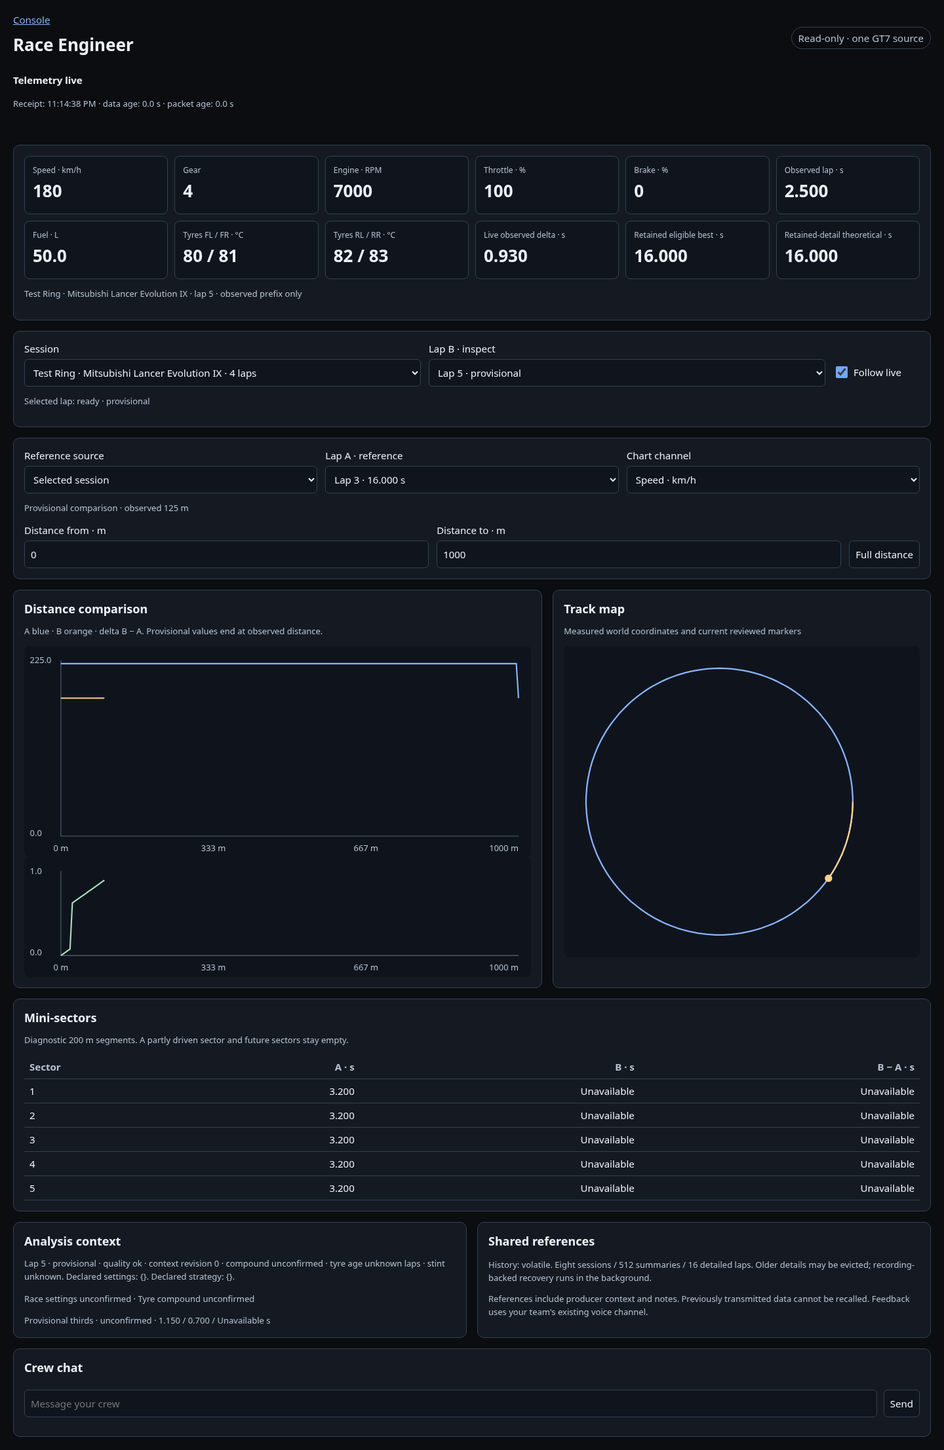
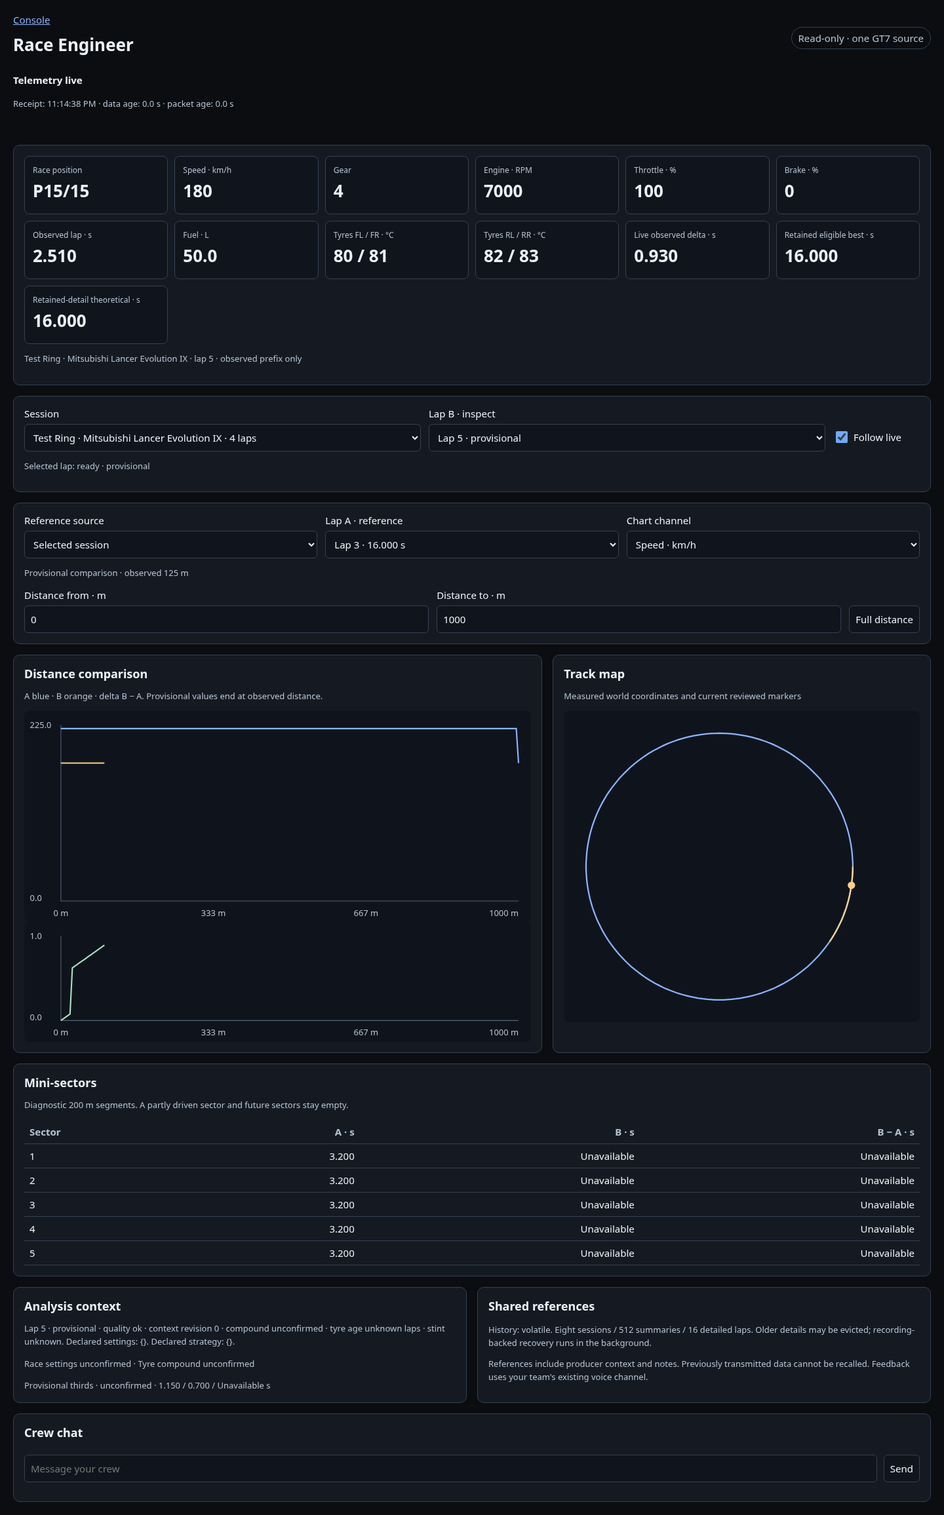
feat: show measured GT7 race and lap-line position (#862)
* feat: publish measured GT7 race and lap-line position

* test: capture measured race position on the Engineer desk

* docs: clarify lap-line position capture conditions

* docs: record delivered Engineer selection and marker fixes

---------

diff --git a/src/console/race-engineer.html b/src/console/race-engineer.html
@@ -13,6 +13,7 @@
 <p id="status" role="status">Checking current access…</p><p id="receipt" class="sub">Waiting for measured telemetry</p><p id="notice" role="status"></p>
 <div id="protected" hidden>
 <section aria-label="Live instruments"><div id="instruments">
+<div class="value"><span>Race position</span><strong id="race-position">Unavailable</strong></div>
 <div class="value"><span>Speed · km/h</span><strong id="speed">Unavailable</strong></div><div class="value"><span>Gear</span><strong id="gear">Unavailable</strong></div><div class="value"><span>Engine · RPM</span><strong id="rpm">Unavailable</strong></div><div class="value"><span>Throttle · %</span><strong id="throttle">Unavailable</strong></div><div class="value"><span>Brake · %</span><strong id="brake">Unavailable</strong></div><div class="value"><span>Observed lap · s</span><strong id="lap-time">Unavailable</strong></div>
 <div class="value"><span>Fuel · L</span><strong id="fuel">Unavailable</strong></div><div class="value"><span>Tyres FL / FR · °C</span><strong id="tyres-front">Unavailable</strong></div><div class="value"><span>Tyres RL / RR · °C</span><strong id="tyres-rear">Unavailable</strong></div><div class="value"><span>Live observed delta · s</span><strong id="delta">Unavailable</strong></div><div class="value"><span>Retained eligible best · s</span><strong id="best">Unavailable</strong></div><div class="value"><span>Retained-detail theoretical · s</span><strong id="theory">Unavailable</strong></div>
 </div><p id="source-state" class="sub"></p></section>
@@ -48,7 +49,7 @@ async function request(route,query={},method='GET',body=null){
 }
 function resetGeneration(generation){if(state.generation&&state.generation!==generation){state.epoch++;state.laps=[];state.sessions=[];state.known.clear();state.historyRevision=null;state.a=state.b=state.session=state.refSource='';state.refLaps=[];state.zoom=null;state.newLaps=0;clearPlots();say('Relay restarted. A new live generation is active; previous recordings remain history.');}state.generation=generation;}
 function options(id,rows,selected,empty){const el=$(id);el.replaceChildren();if(empty!==undefined){const o=document.createElement('option');o.value='';o.textContent=empty;el.append(o);}for(const row of rows){const o=document.createElement('option');o.value=row.id;o.textContent=row.label;el.append(o);}if(selected&&!rows.some(r=>r.id===selected)){const o=document.createElement('option');o.value=selected;o.textContent='Unavailable selection';el.append(o);}el.value=selected;}
-function lapLabel(r){return `Lap ${r.lap} · ${r.state==='provisional'?'provisional':num(r.time_s,3)+' s'}${r.detail_state==='evicted'?' · evicted':''}${!r.comparison_eligible&&r.state!=='provisional'?' · limited':''}`;}
+function lapLabel(r){return `Lap ${r.lap} · ${r.state==='provisional'?'provisional':num(r.time_s,3)+' s'}${r.line_position!=null&&r.line_car_count!=null?' · finish P'+r.line_position+'/'+r.line_car_count:''}${r.detail_state==='evicted'?' · evicted':''}${!r.comparison_eligible&&r.state!=='provisional'?' · limited':''}`;}
 function carLabel(row){return row.car||('car '+(row.car_id??'unknown'));}
 function referenceLabel(row){const source=row.session_id?.split(':')[1];return state.refs.find(r=>r.id===source)?.label||'Shared reference';}
 function selections(){
@@ -65,7 +66,7 @@ function selections(){
  options('reference-source',state.refs.map(r=>({id:r.id,label:r.label})),state.refSource,'Selected session');
  $('follow').checked=state.follow;$('new-laps').textContent=state.newLaps?`${state.newLaps} newly completed lap${state.newLaps===1?'':'s'}`:'';
 }
-function instruments(snap){const v=snap.instruments||{};for(const [id,value,d] of [['speed',v.speed_kmh,0],['gear',v.gear,0],['rpm',v.rpm,0],['throttle',v.throttle,0],['brake',v.brake,0],['fuel',v.fuel_l,1],['lap-time',snap.current?.elapsed_s,3],['best',snap.best_s,3],['theory',snap.theoretical_s,3]])$(id).textContent=num(value,d);
+function instruments(snap){const v=snap.instruments||{};$('race-position').textContent=v.race_position!=null&&v.car_count!=null?`P${v.race_position}/${v.car_count}`:'Unavailable';for(const [id,value,d] of [['speed',v.speed_kmh,0],['gear',v.gear,0],['rpm',v.rpm,0],['throttle',v.throttle,0],['brake',v.brake,0],['fuel',v.fuel_l,1],['lap-time',snap.current?.elapsed_s,3],['best',snap.best_s,3],['theory',snap.theoretical_s,3]])$(id).textContent=num(value,d);
  const tyres=v.tyres_c||[];$('tyres-front').textContent=num(tyres[0],0)+' / '+num(tyres[1],0);$('tyres-rear').textContent=num(tyres[2],0)+' / '+num(tyres[3],0);
  $('source-state').textContent=snap.current?`${snap.current.track||'Unknown track'} · ${snap.current.car||'Unknown car'} · lap ${snap.current.lap} · observed prefix only`:'Waiting for a lap';
  $('history-state').textContent=`History: ${snap.history}. Eight sessions / 512 summaries / 16 detailed laps. Older details may be evicted; recording-backed recovery runs in the background.`;

diff --git a/tests/test_engineer_race_position.py b/tests/test_engineer_race_position.py
@@ -1,0 +1,115 @@
+"""Measured race-position parsing, lap-line preservation and public projection."""
+import json
+import math
+import struct
+import sys
+import tempfile
+from pathlib import Path
+
+ROOT = Path(__file__).resolve().parents[1]
+sys.path.insert(0, str(ROOT / 'src' / 'scripts'))
+import gt7_telemetry as tm
+import gt7_laps
+import gt7_recording
+import race_engineer_live as live
+import race_engineer_api as api
+from test_gt7_laps import _pkt, FakeTracks, FakeCars
+
+
+def packet(lap=1, position=15, cars=15, angle=0, flags=None):
+    raw = bytearray(_pkt(lap, 50, angle))
+    struct.pack_into('<hh', raw, 0x84, position, cars)
+    if flags is not None:
+        struct.pack_into('<H', raw, tm.OFF_FLAGS, flags)
+    return bytes(raw)
+
+
+def t_valid_and_invalid_position_pairs():
+    for pos, count in [(15, 15), (1, 2), (2, 2), (1, 1), (32767, 32767)]:
+        for length in (0x128, 0x13c, 0x158):
+            parsed = tm.parse_packet(packet(position=pos, cars=count)[:length])
+            assert (parsed.race_position, parsed.car_count) == (pos, count), 'valid measured race position lost'
+    for pos, count in [(-1, -1), (0, 0), (1, 0), (-1, 15), (0, 15), (16, 15), (1, -1)]:
+        parsed = tm.parse_packet(packet(position=pos, cars=count))
+        assert parsed.race_position is None, 'invalid measured position accepted'
+        assert parsed.car_count == (count if count > 0 else None), 'invalid field size accepted'
+
+
+def t_snapshot_uses_measured_position_only():
+    with live.Store(lambda: True, tracks=FakeTracks(), cars=FakeCars()) as store:
+        service = api.Service(store)
+        try:
+            for offset, pos in enumerate((15, 7, 1)):
+                store.put(tm.parse_packet(packet(position=pos)), 100 + offset)
+                assert store.flush(10)
+                instruments = service.snapshot()['instruments']
+                assert (instruments['race_position'], instruments['car_count']) == (pos, 15)
+            for flags in (0, tm.FLAG_ON_TRACK | tm.FLAG_LOADING):
+                store.put(tm.parse_packet(packet(flags=flags)), 120)
+                assert store.flush(10)
+                instruments = service.snapshot()['instruments']
+                assert instruments['race_position'] is None and instruments['car_count'] is None, 'off-session race position retained'
+        finally:
+            service.close()
+
+
+def t_lap_line_position_matches_live_and_offline_index():
+    with tempfile.TemporaryDirectory() as root:
+        writer = gt7_recording.RecordingWriter(root, 'Solo', 'dev', queue_max=0)
+        # Position changes at the boundary. The previous packet's position is wrong.
+        for lap in range(1, 4):
+            for k in range(80):
+                writer.put(100 + (lap-1)*20 + k*.25, '~', packet(lap, position=lap if k == 0 else 15, angle=2*math.pi*k/80))
+        writer.close()
+        with live.Store(lambda: True, tracks=FakeTracks(), cars=FakeCars(), queue_max=4096) as store:
+            for wall, _, raw in gt7_recording.Recording(writer.path).packets():
+                store.put(tm.parse_packet(raw), wall)
+            assert store.flush(10)
+            service = api.Service(store)
+            try:
+                history = service.history(None)
+                lap = next(row for row in history['laps'] if row['lap'] == 2)
+                assert (lap['line_position'], lap['line_car_count']) == (3, 15), 'lap line used previous packet position'
+                assert service.snapshot()['current'].get('line_position') is None, 'unfinished lap claimed a finish position'
+                indexed = gt7_laps.index(writer.path, FakeTracks(), FakeCars(), root)
+                row = next(row for row in indexed['laps'] if row['lap'] == 2)
+                assert (row['line_position'], row['line_car_count']) == (3, 15), 'offline index lost lap-line position'
+                cache = Path(gt7_laps.cache_path(writer.path))
+                old = json.loads(cache.read_text()); old['version'] = 7
+                for cached in old['laps']:
+                    cached.pop('line_position', None); cached.pop('line_car_count', None)
+                cache.write_text(json.dumps(old))
+                rebuilt = gt7_laps.index(writer.path, FakeTracks(), FakeCars(), root)
+                assert next(r for r in rebuilt['laps'] if r['lap'] == 2)['line_position'] == 3, 'legacy index was not rebuilt'
+            finally:
+                service.close()
+
+
+
+def t_menu_boundary_does_not_claim_a_line_position():
+    for flags in (0, tm.FLAG_ON_TRACK | tm.FLAG_LOADING):
+        engine = tm.TelemetryEngine(); laps = []; engine.on_lap = laps.append
+        engine.update(tm.parse_packet(packet()), 100)
+        engine.update(tm.parse_packet(packet(lap=2, flags=flags)), 101)
+        assert laps[-1]['line_position'] is None, 'menu/loading packet claimed a line position'
+
+
+def t_missing_line_position_and_old_resume_packet():
+    engine = tm.TelemetryEngine()
+    laps = []; engine.on_lap = laps.append
+    engine.update(tm.parse_packet(packet(lap=1)), 100)
+    engine.update(tm.parse_packet(packet(lap=2, position=-1, cars=-1)), 101)
+    assert laps[-1]['line_position'] is None and laps[-1]['line_car_count'] is None
+    saved = engine.resume_state()
+    saved['last'].pop('race_position'); saved['last'].pop('car_count')
+    restored = tm.TelemetryEngine(); restored.restore(saved)
+    assert restored._last.race_position is None and restored._last.car_count is None
+    engine.update(tm.parse_packet(packet(lap=0, flags=0)), 102)
+    assert laps[-1]['reason'] == 'session change'
+    assert laps[-1]['line_position'] is None, 'abandoned lap claimed a line position'
+
+if __name__ == '__main__':
+    for name, fn in sorted(list(globals().items())):
+        if name.startswith('t_') and callable(fn):
+            fn()
+            print('PASS', name)

diff --git a/src/scripts/gt7_telemetry.py b/src/scripts/gt7_telemetry.py
@@ -35,6 +35,8 @@ OFF_LAP = 0x74          # current lap (int16)
 OFF_BEST_MS = 0x78      # best lap time, ms (int32; -1 = none)
 OFF_LAST_MS = 0x7C      # last lap time, ms (int32; -1 = none)
 OFF_DAY_PROGRESSION = 0x80  # time of day on track, ms since midnight (int32)
+OFF_RACE_POSITION = 0x84  # own race position (int16; -1 = no session)
+OFF_CAR_COUNT = 0x86      # number of cars (int16; -1 = no session)
 OFF_FLAGS = 0x8E        # simulator flags (uint16 bitfield)
 OFF_THROTTLE = 0x91     # 0-255 (uint8)
 OFF_BRAKE = 0x92        # 0-255 (uint8)
@@ -98,8 +100,8 @@ GT7Packet = namedtuple("GT7Packet", [
     "flags", "on_track", "paused", "loading",
     "car_id",
     "steer_rad", "sway", "heave", "surge", "throttle_input", "brake_input",
-    "gear", "rpm", "pos_x", "pos_y", "pos_z",
-], defaults=(None,) * 12)   # None when the packet is too short to carry the field
+    "gear", "rpm", "pos_x", "pos_y", "pos_z", "race_position", "car_count",
+], defaults=(None,) * 14)   # None when the packet is too short to carry the field
 
 
 def _opt_float(plain, off):
@@ -118,6 +120,9 @@ def parse_packet(plain):
     """Parse a decrypted packet buffer of any type into a GT7Packet. Fields the
     packet type does not carry are None."""
     flags = struct.unpack_from("<H", plain, OFF_FLAGS)[0]
+    position, cars = struct.unpack_from("<hh", plain, OFF_RACE_POSITION)
+    cars = cars if cars > 0 else None
+    position = position if cars is not None and 1 <= position <= cars else None
     return GT7Packet(
         speed_mps=struct.unpack_from("<f", plain, OFF_SPEED)[0],
         fuel_level=struct.unpack_from("<f", plain, OFF_FUEL_LEVEL)[0],
@@ -150,6 +155,7 @@ def parse_packet(plain):
         pos_x=struct.unpack_from("<f", plain, OFF_POS)[0],
         pos_y=struct.unpack_from("<f", plain, OFF_POS + 4)[0],
         pos_z=struct.unpack_from("<f", plain, OFF_POS + 8)[0],
+        race_position=position, car_count=cars,
     )
 
 
@@ -404,7 +410,7 @@ class TelemetryEngine:
         elif pkt.lap != self._lap_num:    # lap-change edge: this new lap starts at the line
             if self._acc is not None and now - self._acc.last_t > 2.0:
                 self._acc._reject("data gap over 2 s")
-            self._finalise_lap()
+            self._finalise_lap(pkt)
             if self._acc is not None:     # bank the closing lap's driven distance
                 self._session_dist_m += self._acc.distance
             self._lap_num = pkt.lap
@@ -504,10 +510,14 @@ class TelemetryEngine:
             return None
         return self._lap_record(self._acc, "not counted", "recording ended mid-lap", closed=False)
 
-    def _emit_lap(self, acc, status, reason, closed=True):
+    def _emit_lap(self, acc, status, reason, closed=True, line_packet=None):
         if self.on_lap is None:
             return
         record = self._lap_record(acc, status, reason, closed)
+        if line_packet is not None and (not line_packet.on_track or line_packet.loading):
+            line_packet = None
+        record["line_position"] = line_packet.race_position if line_packet is not None else None
+        record["line_car_count"] = line_packet.car_count if line_packet is not None else None
         try:
             self.on_lap(record)
         except Exception as e:  # noqa: BLE001  a lap consumer must never stop the telemetry
@@ -529,7 +539,7 @@ class TelemetryEngine:
         except Exception as e:  # noqa: BLE001  bad track data must not stop the telemetry
             LOG.warning("GT7 track recognition failed: %s", e)
 
-    def _finalise_lap(self):
+    def _finalise_lap(self, line_packet=None):
         acc = self._acc
         if acc is None:
             return
@@ -547,15 +557,15 @@ class TelemetryEngine:
         head = f"GT7 lap {self._lap_num} {_fmt_time(acc.elapsed)}"
         if why is not None:
             LOG.info("%s: not counted (%s)", head, why)
-            self._emit_lap(acc, "not counted", why)
+            self._emit_lap(acc, "not counted", why, line_packet=line_packet)
             return
         if self._ref is None or acc.elapsed < self._ref["time"]:
             self._ref = {"time": acc.elapsed, "samples": acc.samples}
             LOG.info("%s: new reference, delta vs this lap from now on", head)
-            self._emit_lap(acc, "reference", "")
+            self._emit_lap(acc, "reference", "", line_packet=line_packet)
         else:
             LOG.info("%s: counted", head)
-            self._emit_lap(acc, "counted", "")
+            self._emit_lap(acc, "counted", "", line_packet=line_packet)
         self._lap_time_sum += acc.elapsed
         self._lap_time_n += 1
         if acc.fuel_start is not None and acc.fuel_end is not None:

diff --git a/tools/e2e-engineer-desk.py b/tools/e2e-engineer-desk.py
@@ -17,6 +17,10 @@ async def main():
         fixture=Fixture(root)
         fixture.access().update(enabled=True,expected=0)
         server=fixture.console(with_live=True); fixture.feed_live()
+        import gt7_recording, gt7_telemetry
+        wall, _, raw = list(gt7_recording.Recording(fixture.live_path).packets())[-1]
+        fixture.live.put(gt7_telemetry.parse_packet(raw)._replace(race_position=15, car_count=15), wall + .02)
+        assert fixture.live.flush(10)
         try:
             async with async_playwright() as pw:
                 browser=await pw.chromium.launch(headless=True)
@@ -25,6 +29,8 @@ async def main():
                 await page.goto(f'http://127.0.0.1:{server.server_port}/console/race-engineer?t={token}')
                 await page.wait_for_function('() => document.getElementById("speed")?.textContent.includes("180")',timeout=5000)
                 assert await page.locator('#rpm').inner_text() == '7000'
+                assert await page.locator('#race-position').inner_text() == 'P15/15', 'measured race position missing'
+                assert 'finish P3/15' in await page.evaluate('() => lapLabel({lap:2,state:"confirmed",time_s:20,line_position:3,line_car_count:15,comparison_eligible:true})'), 'lap option lost line position'
                 await page.wait_for_function('() => EngineerDesk.state.historyRevision !== null')
                 assert 'Mitsubishi Lancer Evolution IX' in await page.locator('#session option:checked').inner_text(), 'session car name missing'
                 fallback = await page.evaluate('() => {const saved=EngineerDesk.state.sessions;EngineerDesk.state.sessions=saved.map(r=>({...r,car:null}));selections();const label=document.querySelector("#session option:checked").textContent;EngineerDesk.state.sessions=saved;selections();return label;}')
@@ -125,6 +131,9 @@ async def main():
                 assert float(left_path.split('L')[0].split()[1]) < float(right_path.split('L')[0].split()[1]), 'ready comparison chart used the fallback lap instead of selected A'
                 await page.unroute('**/race-engineer/lap?*', recovering_a)
                 if '--shots' in sys.argv:
+                    fixture.live.put(gt7_telemetry.parse_packet(raw)._replace(race_position=15, car_count=15), fixture.live._receipt[1]+.01)
+                    assert fixture.live.flush(10)
+                    await page.wait_for_function('() => document.getElementById("race-position").textContent === "P15/15"')
                     for width,height,name in [(1440,1050,'desktop'),(1024,1100,'tablet'),(390,900,'phone')]:
                         await page.set_viewport_size({'width':width,'height':height})
                         await page.screenshot(path=str(ROOT/f'src/docs/wiki/images/console-race-engineer-{name}.png'),full_page=True)
@@ -153,11 +162,14 @@ async def main():
                 async def missing_car(route):
                     response = await route.fetch(); data = await response.json()
                     data['instruments']['position'] = None
+                    data['instruments']['race_position'] = None
+                    data['instruments']['car_count'] = None
                     await route.fulfill(json=data)
                 await page.unroute('**/race-engineer/snapshot', moving_car)
                 await page.route('**/race-engineer/snapshot', missing_car)
                 await page.wait_for_function('() => EngineerDesk.state.snapshot?.instruments?.position === null')
                 assert await page.locator('#map circle').count() == 0, 'missing position retained a car marker'
+                assert await page.locator('#race-position').inner_text() == 'Unavailable', 'missing race position retained a place'
                 await page.unroute('**/race-engineer/snapshot', missing_car)
                 async def another_track(route):
                     response = await route.fetch(); data = await response.json()

diff --git a/src/scripts/gt7_laps.py b/src/scripts/gt7_laps.py
@@ -19,7 +19,7 @@ STEP_M = 5.0
 SECTOR_M = 200.0
 MAX_TRACE_M = gt7_telemetry.MAX_SAMPLES * gt7_telemetry.SAMPLE_MIN_DIST
 COUNTED = ("reference", "counted")
-INDEX_VERSION = 7
+INDEX_VERSION = 8
 CACHE_SUFFIX = ".laps.json"
 DECIMATE_M = 2.0              # finer samples add nothing to a 5 m trace
 RESUME_CHECK = 64             # bytes before a resume point that must be unchanged to continue there
@@ -458,6 +458,7 @@ def _indexed_lap(stem, lap, samples, tyres, first, track_db, cars, found, open_l
         "fuel_used_l": None if lap["fuel_used"] is None else round(lap["fuel_used"], 2),
         "fuel_start_l": lap.get("fuel_start_l"), "fuel_end_l": lap.get("fuel_end_l"),
         "top_speed_kmh": round(lap["top_speed_mps"] * 3.6, 1),
+        "line_position": lap.get("line_position"), "line_car_count": lap.get("line_car_count"),
         "car_id": lap["car_id"], "car": gt7_recording.car_name(cars, lap["car_id"]),
         "track_id": track_id,
         "track": found["track"] if track_id is not None else "",

diff --git a/src/scripts/race_engineer_live.py b/src/scripts/race_engineer_live.py
@@ -55,6 +55,8 @@ SUMMARY_FIELDS = frozenset((
     "length_m",
     "fuel_used_l",
     "top_speed_kmh",
+    "line_position",
+    "line_car_count",
     "lap_role",
     "after_service",
     "capture_complete",
@@ -143,6 +145,8 @@ def instruments(pkt):
         "position": {"x": x, "z": z}
         if pkt.on_track and not pkt.loading and x is not None and z is not None
         else None,
+        "race_position": pkt.race_position if pkt.on_track and not pkt.loading else None,
+        "car_count": pkt.car_count if pkt.on_track and not pkt.loading else None,
         "speed_kmh": _finite(pkt.speed_mps * 3.6),
         "gear": _finite(pkt.gear),
         "rpm": _finite(pkt.rpm),

diff --git a/src/scripts/race_engineer_api.py b/src/scripts/race_engineer_api.py
@@ -33,6 +33,8 @@ FIELDS = frozenset((
     "length_m",
     "fuel_used_l",
     "top_speed_kmh",
+    "line_position",
+    "line_car_count",
     "lap_role",
     "after_service",
     "capture_complete",

diff --git a/src/docs/design/engineer-race-position.md b/src/docs/design/engineer-race-position.md
@@ -1,0 +1,16 @@
+# Race position from GT7 telemetry
+
+Requirements and verification for #854 under #850.
+
+| Requirement | Production path | Positive proof | Failure proof | Runtime proof |
+| --- | --- | --- | --- | --- |
+| Parse own race position and field size | GT7 packet parser at 0x84/0x86 | P15/15, P1/2 and P2/2, packet A/B/~ | Sentinel/zero/negative count and position beyond field rejected | Synthetic packet decode |
+| Publish measured instruments | Live Store snapshot and signed API | Valid integer position/count | Menu/loading and inconsistent values unavailable | Real HTTP/browser |
+| Preserve position at the lap line | Engine closed lap, shared offline index, public summary | Boundary packet position survives live/index paths | Open/session-abandoned capture cannot claim a finish position | Recording with position changing at line |
+| Show position prominently and in lap options | Engineer desk | Pn/count tile and completed lap line position | Missing values remain unavailable; no invented competitor gaps | Three viewports and refreshed wiki screenshots |
+
+The protocol uses signed 16-bit values. A positive field size and a position from
+one through that size form a usable pair; no unverified game-specific maximum
+is imposed. The packet which advances the lap counter supplies the line position.
+An unfinished capture has no line position. Old recording indexes are rebuilt
+when their schema changes, while old resume packets remain compatible.

diff --git a/src/docs/wiki/Race-Engineer.md b/src/docs/wiki/Race-Engineer.md
@@ -11,10 +11,13 @@ the current Sheet webhook when adding the Crew field.
 ## Live values and analysis
 
 The desk reads the existing single GT7 source of a solo POV profile. Speed, gear,
-RPM, throttle/brake, observed lap time, fuel and tyre temperatures refresh roughly
+RPM, throttle/brake, race position, observed lap time, fuel and tyre temperatures refresh roughly
 twice per second. Missing measurements say **Unavailable**. The observed lap clock
 and live delta describe received data; neither advances without new packets.
-Receipt time, data age and packet age remain visible.
+Race position reads **P15/15**, for example, from GT7's own-car position and field
+size. Missing or inconsistent readings remain unavailable. Completed lap options
+include the position measured at the line when GT7 provided it. No gaps to
+other cars are inferred. Receipt time, data age and packet age remain visible.
 
 Select **Session** and **Lap B** to inspect retained current or prior-session laps.
 Sessions show the track, vehicle name and lap count; unknown names fall back to

diff --git a/src/docs/design/race-engineer-live-session-plan.md b/src/docs/design/race-engineer-live-session-plan.md
@@ -15,7 +15,7 @@ The standing release PR is outside this work.
 - [x] #856: package recording replay as a maintainer tool with temporary copied
   sources, signed engineer access, paced/accelerated playback, bounded pre-feed,
   explicit data update and offline fallback; run synthetic checks in CI.
-- [ ] #852: show car and granted reference names, reset manual new-lap notices,
+- [x] #852: show car and granted reference names, reset manual new-lap notices,
   and draw the current snapshot's car independently from selected lap traces.
 - [ ] #854: parse validated race position/car count, publish instruments and
   lap-line position, and display position on the desk.
